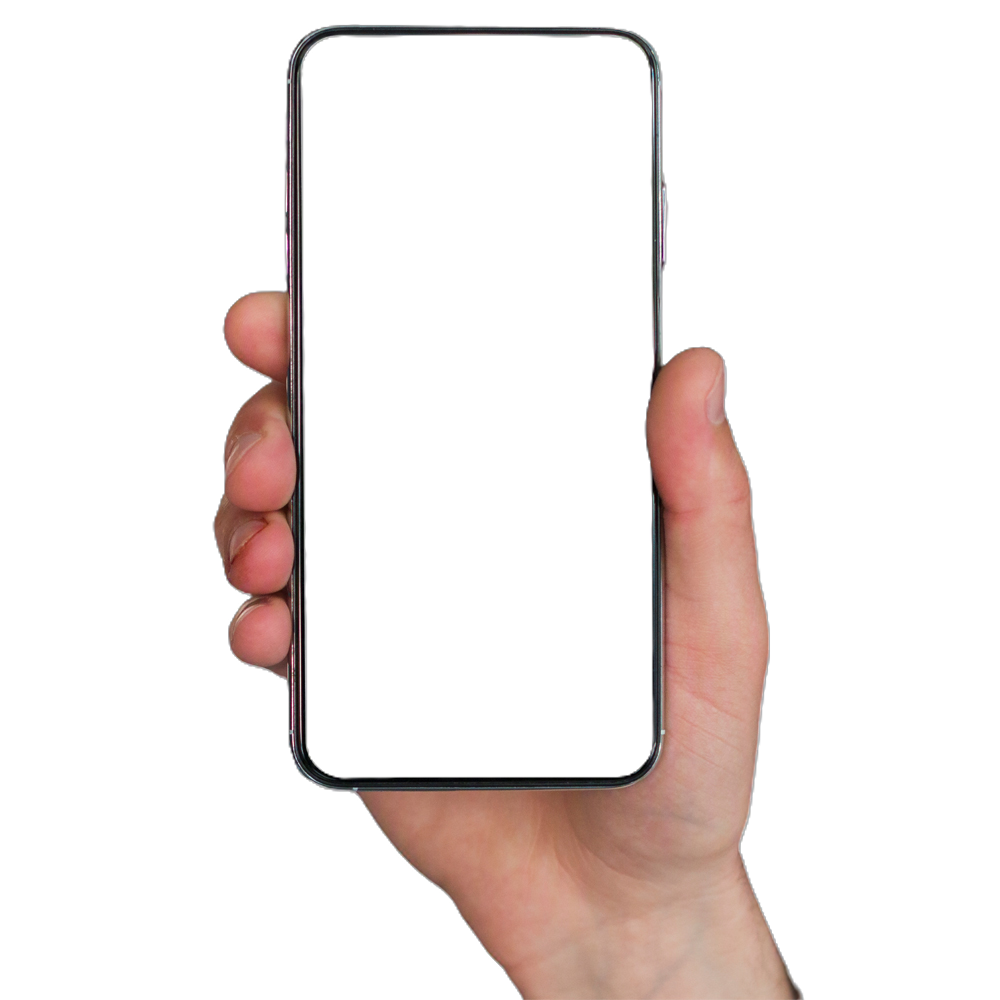
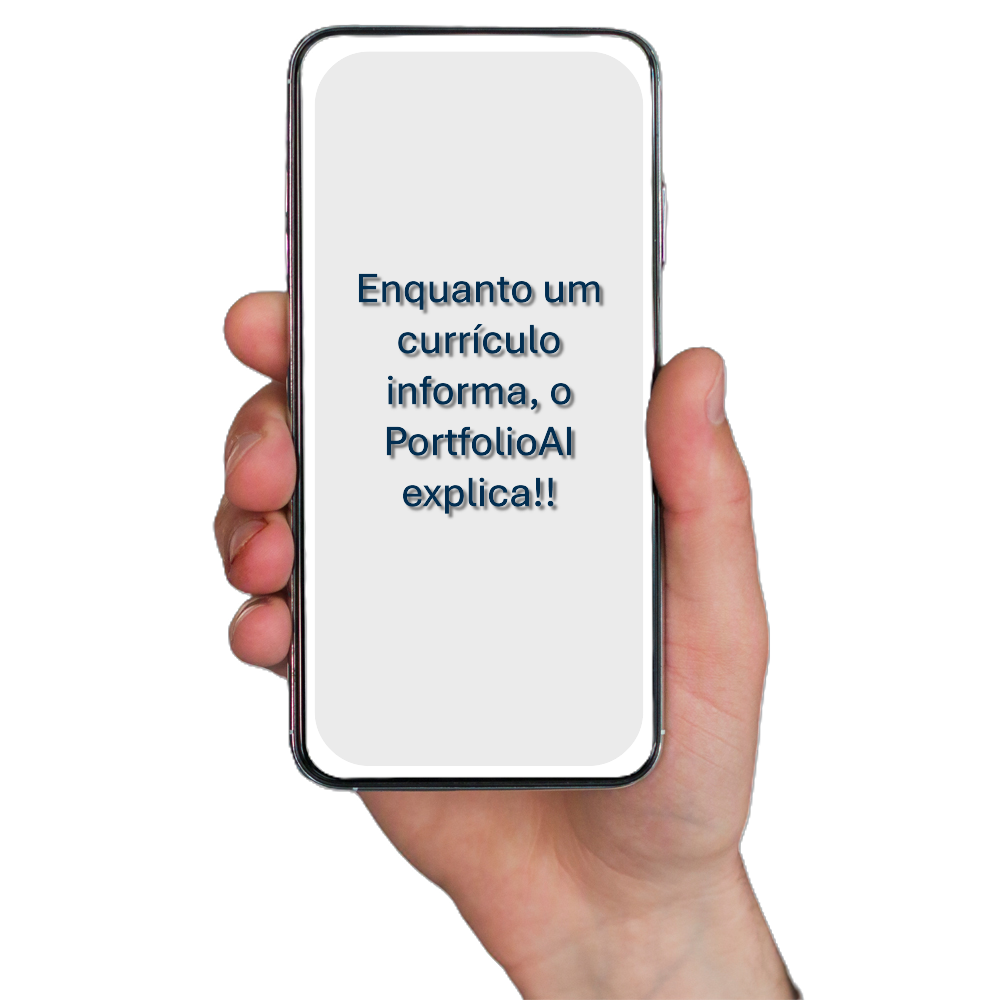
Atualização das imagens
Inserido imagens na pasta assets e modificações no layout do app.py

Changed region(s): [[0.341, 0.279, 0.62, 0.527]]

diff --git a/app.py b/app.py
@@ -3,7 +3,6 @@ import streamlit as st
 # -------------------------
 # CONFIGURAÇÃO DA PÁGINA
 # -------------------------
-
 st.set_page_config(
     page_title="PortfolioAI",
     page_icon="🤖",
@@ -11,121 +10,211 @@ st.set_page_config(
     initial_sidebar_state="collapsed"
 )
 
-# Remove menu padrão
+# -------------------------
+# CSS GLOBAL
+# -------------------------
 st.markdown("""
 <style>
+/* Remove elementos padrão do Streamlit */
+#MainMenu {visibility: hidden;}
+header {visibility: hidden;}
+footer {visibility: hidden;}
+.stDeployButton {display: none;}
 
-#MainMenu {visibility:hidden;}
-header {visibility:hidden;}
-footer {visibility:hidden;}
-
-</style>
-""", unsafe_allow_html=True)
-
-# Fundo azul
-
-st.markdown("""
-<style>
-
-.stApp{
-
-background-color:#0A3153;
-
+/* Fundo principal */
+.stApp {
+    background-color: #0A3153;
+    background-image: radial-gradient(circle at 20% 50%, rgba(11, 56, 95, 0.4) 0%, transparent 50%),
+                      radial-gradient(circle at 80% 20%, rgba(11, 56, 95, 0.3) 0%, transparent 40%);
 }
 
+/* Título */
+.titulo-principal {
+    text-align: center;
+    color: #FFFFFF;
+    font-size: 2.1rem;
+    font-weight: 500;
+    margin-top: 1.2rem;
+    margin-bottom: 0.3rem;
+    letter-spacing: 0.5px;
+}
+
+/* Subtítulo */
+.subtitulo {
+    text-align: center;
+    color: #FFFFFF;
+    font-size: 1.15rem;
+    margin-bottom: 1.8rem;
+    opacity: 0.95;
+}
+
+/* Container dos cards inferiores (azul 50% transparente) */
+.card-azul {
+    background-color: rgba(11, 56, 95, 0.5);
+    border-radius: 18px;
+    padding: 18px 18px 14px 18px;
+    margin-bottom: 10px;
+}
+
+/* Card branco interno */
+.card-branco {
+    background-color: #FFFFFF;
+    border-radius: 14px;
+    padding: 14px 16px;
+    min-height: 140px;
+}
+
+/* Labels dos cards */
+.label-card {
+    color: #FFFFFF;
+    font-size: 0.95rem;
+    font-weight: 500;
+    margin-bottom: 8px;
+    padding-left: 4px;
+}
+
+/* Placeholder e texto interno dos text_area */
+.stTextArea textarea {
+    color: #8E8E93 !important;
+    font-size: 0.95rem !important;
+    background-color: #FFFFFF !important;
+    border: none !important;
+    border-radius: 10px !important;
+}
+
+.stTextArea textarea::placeholder {
+    color: #8E8E93 !important;
+    opacity: 0.85;
+}
+
+/* Botão Enviar */
+div.stButton > button {
+    background-color: #FFFFFF;
+    color: #0B385F;
+    border: none;
+    border-radius: 10px;
+    padding: 0.45rem 1.4rem;
+    font-weight: 600;
+    font-size: 0.95rem;
+    transition: all 0.2s ease;
+}
+
+div.stButton > button:hover {
+    background-color: #E8F0F8;
+    color: #0B385F;
+    border: none;
+}
+
+/* Rodapé */
+.rodape {
+    background-color: #D9D9D9;
+    color: #081623;
+    text-align: center;
+    padding: 12px 0;
+    font-size: 0.9rem;
+    margin-top: 2.5rem;
+    border-radius: 0;
+    width: 100%;
+}
+
+/* Ajustes de espaçamento */
+.block-container {
+    padding-top: 1rem !important;
+    padding-bottom: 0 !important;
+    max-width: 1100px;
+}
 </style>
 """, unsafe_allow_html=True)
 
-# Título
+# -------------------------
+# TÍTULO
+# -------------------------
+st.markdown(
+    '<h1 class="titulo-principal">PortfolioAI – Transformando currículos em conversas inteligentes.</h1>',
+    unsafe_allow_html=True
+)
 
-st.markdown("""
-<h1 style="
-text-align:center;
-color:white;
-font-size:36px;
-margin-top:15px;
-">
+# -------------------------
+# IMAGEM CENTRAL (celular)
+# -------------------------
+col_esq, col_centro, col_dir = st.columns([1.2, 1.6, 1.2])
 
-PortfolioAI
+with col_centro:
+    st.image("assets/celular.png", use_container_width=True)
 
-</h1>
+# Espaço pequeno após a imagem
+st.markdown("<div style='height: 18px;'></div>", unsafe_allow_html=True)
 
-""", unsafe_allow_html=True)
+# -------------------------
+# ÁREA DE PERGUNTA E RESPOSTA (dois cards)
+# -------------------------
+col_pergunta, col_resposta = st.columns(2, gap="medium")
 
-# Subtítulo
+# ---- Card da Pergunta ----
+with col_pergunta:
+    st.markdown('<div class="label-card">Faça sua pergunta</div>', unsafe_allow_html=True)
 
-st.markdown("""
-
-<p style="
-text-align:center;
-font-size:20px;
-color:white;
-margin-bottom:40px;
-">
-
-Transformando currículos em conversas inteligentes.
-
-</p>
-
-""", unsafe_allow_html=True)
-
-# Layout
-
-col1,col2,col3 = st.columns([1,2,1])
-
-# Imagem
-
-with col2:
-
-    st.image(
-        "assets/celular.png",
-        width=350
-    )
-    
-# container
-
-with col2:
-
-    st.image("assets/celular.png", width=350)
+    st.markdown('<div class="card-azul">', unsafe_allow_html=True)
 
     pergunta = st.text_area(
-        "Insira sua pergunta",
-        height=90
+        label="pergunta",
+        height=130,
+        placeholder="Digite aqui sua pergunta que o assistente consultará a base de dados.",
+        label_visibility="collapsed",
+        key="input_pergunta"
     )
 
-    if st.button("Enviar"):
+    # Botão alinhado à direita
+    btn_col1, btn_col2 = st.columns([3, 1])
+    with btn_col2:
+        enviar = st.button("Enviar", use_container_width=True)
 
-        resposta = "Resposta do PortfolioAI aparecerá aqui."
+    st.markdown('</div>', unsafe_allow_html=True)
 
-    else:
+# ---- Card da Resposta ----
+with col_resposta:
+    st.markdown('<div class="label-card">&nbsp;</div>', unsafe_allow_html=True)  # alinhamento visual
 
-        resposta = ""
+    st.markdown('<div class="card-azul">', unsafe_allow_html=True)
+
+    # Inicializa session_state
+    if "resposta" not in st.session_state:
+        st.session_state.resposta = ""
+
+    # Lógica de envio
+    if enviar and pergunta.strip():
+        try:
+            from backend.chat import perguntar
+            with st.spinner("Consultando a base de conhecimento..."):
+                st.session_state.resposta = perguntar(pergunta)
+        except Exception as e:
+            st.session_state.resposta = (
+                "Desculpe, ocorreu um erro ao processar sua pergunta. "
+                "Tente novamente ou entre em contato: elissouza@outlook.com.br"
+            )
+    elif enviar and not pergunta.strip():
+        st.session_state.resposta = "Por favor, digite uma pergunta."
 
     st.text_area(
-        "Resposta",
-        value=resposta,
-        height=220
+        label="resposta",
+        value=st.session_state.resposta if st.session_state.resposta else "",
+        height=160,
+        placeholder="A resposta do Portfolio AI aparecerá aqui. Faça sua pergunta",
+        label_visibility="collapsed",
+        disabled=True,
+        key="output_resposta"
     )
-    
-    resposta = "Resposta do PortfolioAI aparecerá aqui."
-    
-    from backend.chat import perguntar
 
-resposta = perguntar(pergunta)
+    st.markdown('</div>', unsafe_allow_html=True)
 
-# rodapé
-
-st.markdown("""
-
-<br><br><br>
-
-<hr>
-
-<p style="text-align:center;color:lightgray">
-
-© PortfolioAI | 2026 | Elisângela de Souza
-
-</p>
-
-""", unsafe_allow_html=True)
-
+# -------------------------
+# RODAPÉ
+# -------------------------
+st.markdown(
+    """
+    <div class="rodape">
+        © PortfolioAI | 2026 | Elisângela de Souza
+    </div>
+    """,
+    unsafe_allow_html=True
+)
